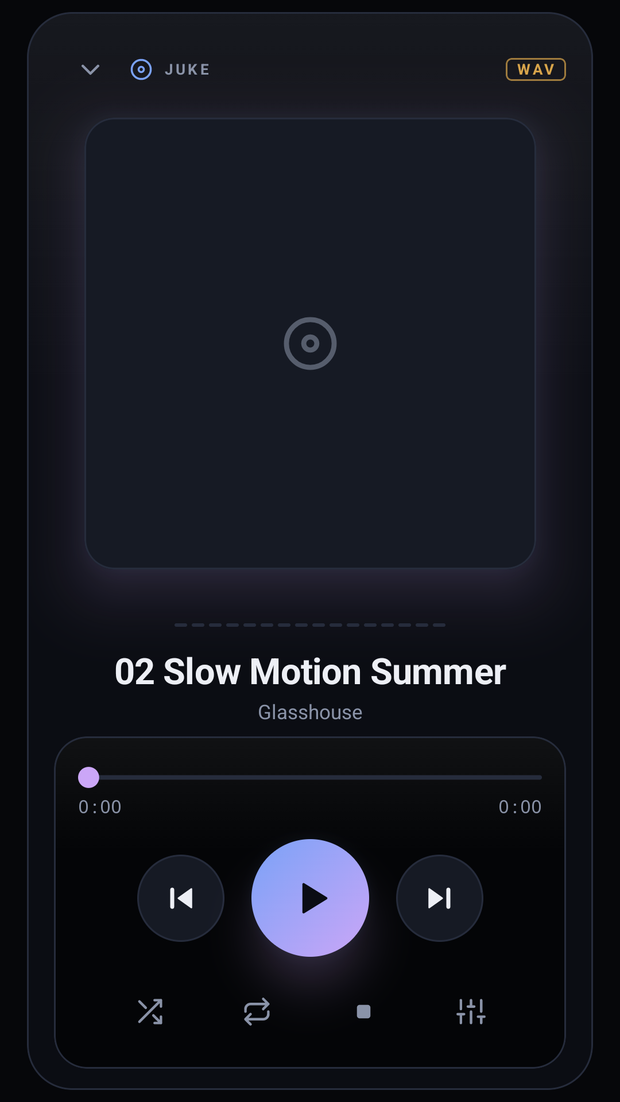
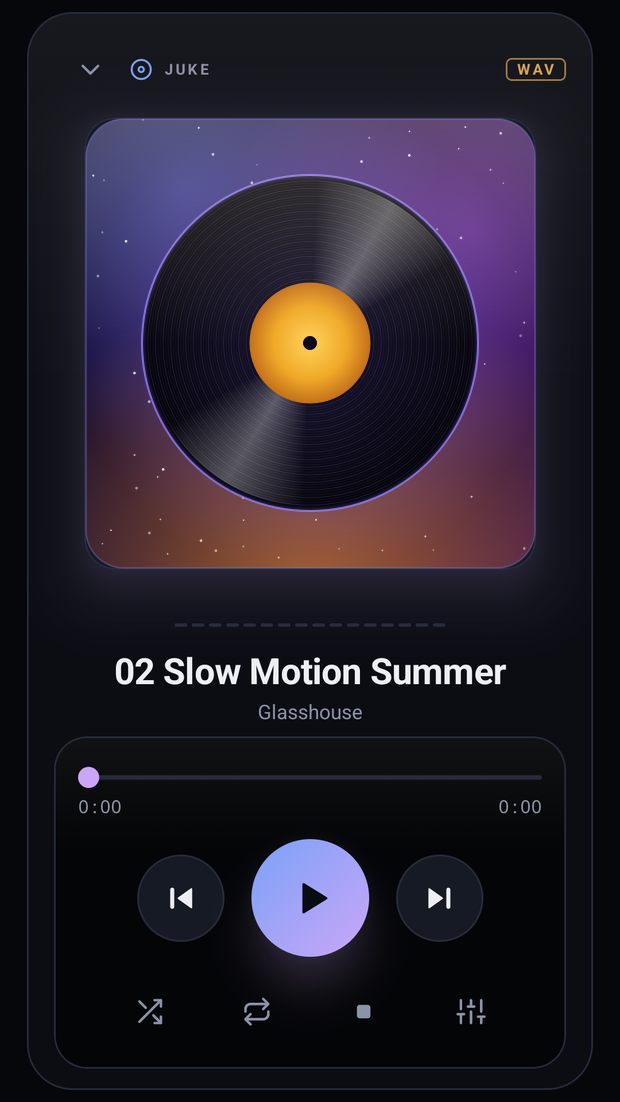
Website: space hero background, an equalizer section, full equalizer screenshots, a cover on the Android player, manual no longer scrolls sideways on phones

Changed region(s): [[0.1226, 0.0926, 0.8887, 0.5245]]

diff --git a/docs/index.html b/docs/index.html
@@ -52,18 +52,8 @@ nav .links a:hover { color: var(--text); background: var(--surface); }
 @media (max-width: 720px) { nav .links a.hide-sm { display: none; } }
 
 /* hero */
-.hero { position: relative; overflow: hidden; text-align: center; padding: 76px 0 40px; background: #05040d; color: #f1ecff;
+.hero { position: relative; overflow: hidden; text-align: center; padding: 76px 0 40px; background: #05040d url(assets/hero-bg.jpg) center top / cover no-repeat; color: #f1ecff;
   --text: #f1ecff; --sub: #c9c2ee; --muted: #a39cd0; --panel: #150e30; --surface: #1f1648; --border: #2c2150; --accent: #9a86ff; --accent2: #e09bff; }
-.hero::before, .hero::after { content: ""; position: absolute; border-radius: 50%; pointer-events: none; }
-.hero::before { inset: 0; border-radius: 0; background:
-  radial-gradient(1px 1px at 12% 22%, #fff, transparent 60%), radial-gradient(1px 1px at 31% 68%, #cfd8ff, transparent 60%),
-  radial-gradient(1.4px 1.4px at 47% 14%, #fff, transparent 60%), radial-gradient(1px 1px at 63% 52%, #ffe9c4, transparent 60%),
-  radial-gradient(1.2px 1.2px at 78% 28%, #fff, transparent 60%), radial-gradient(1px 1px at 91% 74%, #cfd8ff, transparent 60%),
-  radial-gradient(1px 1px at 22% 88%, #fff, transparent 60%), radial-gradient(1.4px 1.4px at 86% 10%, #ffe9c4, transparent 60%),
-  radial-gradient(60% 70% at 20% 0%, rgba(91,108,240,.42), transparent 70%), radial-gradient(55% 70% at 85% 0%, rgba(176,76,240,.38), transparent 70%),
-  linear-gradient(160deg, #04030c, #0d0722 55%, #1a0b2e);
-  background-size: 420px 420px, 380px 380px, 460px 460px, 350px 350px, 400px 400px, 440px 440px, 360px 360px, 480px 480px, auto, auto, auto; }
-.hero::after { width: 900px; height: 520px; left: calc(50% - 450px); bottom: -300px; background: radial-gradient(closest-side, rgba(255,154,31,.5), transparent); filter: blur(30px); }
 .hero > .wrap { position: relative; }
 .hero .logo { width: 104px; height: 104px; margin: 0 auto 22px; filter: drop-shadow(0 18px 34px rgba(154,108,255,.5)); }
 h1 { font-size: clamp(44px, 8vw, 84px); line-height: 1; letter-spacing: -.035em; margin: 0 0 14px; font-weight: 800; }
@@ -82,6 +72,15 @@ h1 span { background: var(--grad); -webkit-background-clip: text; background-cli
 .fine { margin: 16px 0 0; font-size: 13.5px; color: var(--muted); }
 .shot { margin: 46px auto 0; border-radius: 16px; border: 1px solid rgba(255,255,255,.09); overflow: hidden; box-shadow: 0 40px 90px -20px rgba(0,0,0,.65), 0 0 0 1px rgba(0,0,0,.4); background: var(--base); }
 .hero .shot { max-width: 1040px; }
+
+/* the equalizer, up front */
+.eqsec { background: linear-gradient(180deg, var(--mantle), var(--base)); }
+.two-eq { display: grid; grid-template-columns: 1fr 1.15fr; gap: 44px; align-items: center; }
+.two-eq > * { min-width: 0; } .two-eq .shot { margin: 0; }
+.eqlist { list-style: none; margin: 0; padding: 0; display: grid; gap: 16px; }
+.eqlist li { padding-left: 18px; border-left: 3px solid var(--amber); }
+.eqlist b { display: block; font-size: 17px; margin-bottom: 2px; } .eqlist span { color: var(--sub); font-size: 15px; }
+@media (max-width: 860px) { .two-eq { grid-template-columns: 1fr; gap: 28px; } }
 
 /* sections */
 section { padding: 88px 0; }
@@ -239,6 +238,22 @@ footer a { color: var(--sub); text-decoration: none; } footer a:hover { color: v
   </div>
 </header>
 
+<section id="equalizer" class="eqsec">
+  <div class="wrap two-eq">
+    <div>
+      <p class="eyebrow" data-i18n="e_eyebrow">The equalizer</p>
+      <h2 data-i18n="e_title">The equalizer Linux players never got right.</h2>
+      <p class="intro" data-i18n="e_intro">Most players give you ten sliders and wish you luck. Juke tells you what each bar does, fixes the room you are listening in, and keeps a curve for every song.</p>
+      <ul class="eqlist">
+        <li><b data-i18n="e1_t">Every bar says what it changes</b><span data-i18n="e1_p">Deep bass, Voice, Clarity, Sparkle — no need to be a sound engineer. 35 presets, from Cumbia to K-Pop.</span></li>
+        <li><b data-i18n="e2_t">Advanced: tidy up the room</b><span data-i18n="e2_p">One-tap controls for echo, reverb, clarity, shrill voices and tight bass, plus a setting for small rooms, speakers, headphones, 5.1 and 7.1.</span></li>
+        <li><b data-i18n="e3_t">A curve for every song</b><span data-i18n="e3_p">Give one song, or a whole group, its own equalizer. The general one comes back for the rest.</span></li>
+      </ul>
+    </div>
+    <div class="shot"><img src="assets/screenshot-equalizer-advanced.png" alt="Juke's Advanced equalizer" width="2400" height="2000" loading="lazy"></div>
+  </div>
+</section>
+
 <section id="features">
   <div class="wrap">
     <p class="eyebrow" data-i18n="f_eyebrow">Features</p>
@@ -321,7 +336,8 @@ footer a { color: var(--sub); text-decoration: none; } footer a:hover { color: v
       <button class="tab" role="tab" aria-selected="false" data-shot="screenshot-light" data-cap="cap_light" data-i18n="tab_light">Light theme</button>
       <button class="tab" role="tab" aria-selected="false" data-shot="screenshot-folders" data-cap="cap_folders" data-i18n="tab_folders">Airsonic folders</button>
       <button class="tab" role="tab" aria-selected="false" data-shot="screenshot-queue" data-cap="cap_queue" data-i18n="tab_queue">Queue</button>
-      <button class="tab" role="tab" aria-selected="false" data-shot="screenshot-equalizer" data-cap="cap_eq" data-small="1" data-i18n="tab_eq">Equalizer</button>
+      <button class="tab" role="tab" aria-selected="false" data-shot="screenshot-equalizer" data-cap="cap_eq" data-i18n="tab_eq">Equalizer</button>
+      <button class="tab" role="tab" aria-selected="false" data-shot="screenshot-equalizer-advanced" data-cap="cap_eq_adv" data-i18n="tab_eq_adv">Advanced equalizer</button>
       <button class="tab" role="tab" aria-selected="false" data-shot="screenshot-settings" data-cap="cap_settings" data-small="1" data-i18n="tab_settings">Settings</button>
     </div>
     <div class="shot" id="gallery-frame"><img id="gallery-img" src="assets/screenshot-main.png" alt="" loading="lazy"></div>
@@ -459,6 +475,11 @@ const T = {
     g3_t: "Hecho para tu escritorio",
     g3_p: "Rápido, ligero y bonito.",
     lead: "Un reproductor de música moderno para Linux",
+    e_eyebrow: "El ecualizador", e_title: "El ecualizador que los reproductores de Linux nunca lograron.",
+    e_intro: "La mayoría te da diez deslizadores y mucha suerte. Juke te dice qué hace cada barra, corrige el cuarto donde escuchas y guarda una curva para cada canción.",
+    e1_t: "Cada barra dice qué cambia", e1_p: "Graves profundos, Voz, Claridad, Brillo — sin ser ingeniero de sonido. 35 presets, de Cumbia a K-Pop.",
+    e2_t: "Avanzado: ordena el cuarto", e2_p: "Controles de un toque para eco, reverberación, claridad, voces chillonas y graves firmes, y un ajuste para cuartos pequeños, parlantes, audífonos, 5.1 y 7.1.",
+    e3_t: "Una curva para cada canción", e3_p: "Dale a una canción, o a todo un grupo, su propio ecualizador. El general vuelve para las demás.",
     sublead: "Tres paneles, un ecualizador de 10 bandas, streaming Airsonic y radio por Internet — instantáneo con más de 50.000 pistas y amable con la batería.",
     cta_download: "Descargar AppImage", cta_github: "Ver en GitHub",
     fine: "Linux x86_64 · glibc 2.35+ · todo incluido en un solo archivo",
@@ -487,13 +508,14 @@ const T = {
     c22_t: "Ve lo que ya sonó", c22_p: "Una marca verde indica cada canción que ya sonó desde que abriste Juke, y unas barras bailan junto a la que suena ahora.",
     c16_t: "Cuéntanos qué falla", c16_p: "Envía comentarios y lee el registro desde el menú ⋯. El reporte se abre como un problema en GitHub para que lo revises, con tus carpetas, contraseñas y dirección del servidor ocultas.",
     s_eyebrow: "Capturas", s_title: "Míralo en acción",
-    tab_main: "Biblioteca", tab_radio: "Radio", tab_light: "Tema claro", tab_folders: "Carpetas Airsonic", tab_queue: "Cola", tab_eq: "Ecualizador", tab_settings: "Ajustes",
+    tab_main: "Biblioteca", tab_radio: "Radio", tab_light: "Tema claro", tab_folders: "Carpetas Airsonic", tab_queue: "Cola", tab_eq: "Ecualizador", tab_eq_adv: "Ecualizador avanzado", tab_settings: "Ajustes",
     cap_main: "Biblioteca con la pantalla LCD, el panel lateral y la tabla de canciones.",
     cap_radio: "Mis Emisoras, la insignia EN VIVO y la canción que suena en la emisora.",
     cap_light: "La misma ventana con el tema claro, o siguiendo a tu escritorio automáticamente.",
     cap_folders: "La jerarquía de carpetas de tu servidor, desplegable en el panel lateral.",
     cap_queue: "La cola actual: a continuación, añadidas a la cola y luego la lista de origen.",
-    cap_eq: "Ecualizador con curva de respuesta en vivo, presets, velocidad y balance estéreo.",
+    cap_eq: "Diez bandas en palabras claras, curva de respuesta en vivo, 35 presets, velocidad y balance estéreo.",
+    cap_eq_adv: "La vista Avanzada: cuadrícula de dB, eco, reverberación, claridad, voz chillona y graves firmes, y un ajuste según dónde escuchas.",
     cap_settings: "Idioma, carpetas de música y tu servidor Airsonic / Subsonic.",
     i_eyebrow: "Instalar", i_title: "Descárgalo y ábrelo.",
     i_intro: "Todo va dentro del archivo, así que no hay nada más que instalar. La primera vez que se ejecuta, Juke se añade a tu menú de aplicaciones.",
@@ -518,7 +540,8 @@ Object.assign(T.en, EN, {
   cap_light: "The same window in the light theme, or following your desktop automatically.",
   cap_folders: "Your server's folder hierarchy, expandable in the sidebar.",
   cap_queue: "The current queue: play next, added to the queue, then the list you started from.",
-  cap_eq: "Equalizer with a live response curve, presets, playback speed and stereo balance.",
+  cap_eq: "Ten bands in plain words, a live response curve, 35 presets, speed and stereo balance.",
+  cap_eq_adv: "The Advanced view: dB grid, echo, reverb, clarity, shrill voice and tight bass, and a setting for where you listen.",
   cap_settings: "Language, music folders and your Airsonic / Subsonic server."
 });
 

diff --git a/docs/manual.html b/docs/manual.html
@@ -38,9 +38,10 @@ figure { margin:18px 0; } figure img { border-radius:14px; border:1px solid var(
 .pill { display:inline-block; font-size:11px; font-weight:700; letter-spacing:.1em; text-transform:uppercase; padding:2px 9px; border-radius:99px; background:var(--surface); color:var(--sub); margin-bottom:2px; } .plat.linux .pill { color:var(--accent); } .plat.android .pill { color:#6fcf7b; }
 .il.linux { color:var(--accent); } .il.android { color:#6fcf7b; } .il::before { content:""; }
 .lang { display:none; } .lang.on { display:block; }
+html, body { overflow-x:clip; } .layout > * { min-width:0; } main { overflow-wrap:anywhere; } pre { max-width:100%; overflow-x:auto; } img { max-width:100%; height:auto; }
 @media (min-width:901px) { aside summary { pointer-events:none; } }
 @media (max-width:900px) {
-  .layout { grid-template-columns:1fr; gap:18px; padding-top:18px; } aside { position:static; max-height:none; }
+  .layout { grid-template-columns:minmax(0,1fr); gap:18px; padding-top:18px; } aside { position:static; max-height:none; }
   aside details { background:var(--panel); border:1px solid var(--border); border-radius:14px; padding:12px 14px; }
   aside summary { margin:0; font-size:13px; } aside summary::after { content:" ▾"; } aside details[open] summary { margin-bottom:10px; } aside details[open] summary::after { content:" ▴"; }
   nav .in { gap:8px; height:54px; } .brand small { display:none; } .tool { padding:6px 10px; }

diff --git a/tools/make_manual_site.py b/tools/make_manual_site.py
@@ -175,9 +175,10 @@ figure { margin:18px 0; } figure img { border-radius:14px; border:1px solid var(
 .pill { display:inline-block; font-size:11px; font-weight:700; letter-spacing:.1em; text-transform:uppercase; padding:2px 9px; border-radius:99px; background:var(--surface); color:var(--sub); margin-bottom:2px; } .plat.linux .pill { color:var(--accent); } .plat.android .pill { color:#6fcf7b; }
 .il.linux { color:var(--accent); } .il.android { color:#6fcf7b; } .il::before { content:""; }
 .lang { display:none; } .lang.on { display:block; }
+html, body { overflow-x:clip; } .layout > * { min-width:0; } main { overflow-wrap:anywhere; } pre { max-width:100%; overflow-x:auto; } img { max-width:100%; height:auto; }
 @media (min-width:901px) { aside summary { pointer-events:none; } }
 @media (max-width:900px) {
-  .layout { grid-template-columns:1fr; gap:18px; padding-top:18px; } aside { position:static; max-height:none; }
+  .layout { grid-template-columns:minmax(0,1fr); gap:18px; padding-top:18px; } aside { position:static; max-height:none; }
   aside details { background:var(--panel); border:1px solid var(--border); border-radius:14px; padding:12px 14px; }
   aside summary { margin:0; font-size:13px; } aside summary::after { content:" ▾"; } aside details[open] summary { margin-bottom:10px; } aside details[open] summary::after { content:" ▴"; }
   nav .in { gap:8px; height:54px; } .brand small { display:none; } .tool { padding:6px 10px; }

diff --git a/tools/make_assets.py b/tools/make_assets.py
@@ -452,8 +452,15 @@ def main() -> None:
     window.toggle_equalizer()
     dialog = window._eq_dialog
     dialog.move(0, 0)
-    settle(200)
+    dialog.setMinimumSize(0, 0)
+    dialog.resize(1080, 820)                                   # the offscreen screen is small: give it the room a desktop would
+    settle(300)
     grab(dialog, out / "screenshot-equalizer.png")
+    dialog.btn_advanced.setChecked(True)                       # the Advanced view: dB grid and the echo / reverb rack
+    dialog.resize(1180, 1000)
+    settle(400)
+    grab(dialog, out / "screenshot-equalizer-advanced.png")
+    dialog.btn_advanced.setChecked(False)
     window._eq_dialog.hide()
 
     # Airsonic settings tab
